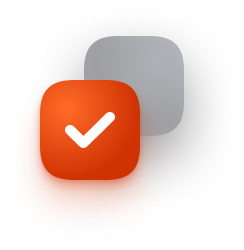
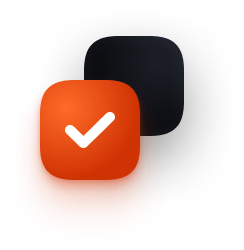
update images

Changed region(s): [[0.3443, 0.14, 0.7746, 0.56]]

diff --git a/src/app/components/passwordInput/index.tsx b/src/app/components/passwordInput/index.tsx
@@ -2,7 +2,7 @@ import { useTranslation } from 'react-i18next';
 import styled, { useTheme } from 'styled-components';
 import Eye from '@assets/img/createPassword/Eye.svg';
 import EyeSlash from '@assets/img/createPassword/EyeSlash.svg';
-import PasswordIcon from '@assets/img/Graphic (1).svg';
+import PasswordIcon from '@assets/img/Graphic (1).png';
 import { useEffect, useState } from 'react';
 import ActionButton from '@components/button';
 import { animated, useTransition } from '@react-spring/web';
@@ -45,7 +45,7 @@ const HeaderContainer = styled.div({
   display: 'flex',
   flexDirection: 'column',
   alignItems: 'center',
-  height: '120px'
+  height: '120px',
 });
 
 interface PasswordInputContainerProps {
@@ -66,11 +66,11 @@ const PasswordInputContainer = styled.div<PasswordInputContainerProps>((props) =
   marginTop: props.theme.spacing(8),
   marginBottom: props.theme.spacing(3),
   ':hover': {
-    border : `1px solid ${props.theme.colors.action.classic}`
+    border: `1px solid ${props.theme.colors.action.classic}`,
   },
   ':focus': {
-    border : `1px solid ${props.theme.colors.action.classic}`
-  }
+    border: `1px solid ${props.theme.colors.action.classic}`,
+  },
 }));
 
 const PasswordInputLabel = styled.h2((props) => ({
@@ -334,14 +334,14 @@ function PasswordInput(props: PasswordInputProps): JSX.Element {
       </PasswordInputContainer>
       {error && <ErrorMessage>{error}</ErrorMessage>}
       <ButtonsContainer stackButtonAlignment={stackButtonAlignment} ifError={error !== ''}>
-          <ActionButton
-            processing={loading}
-            disabled={
-              !enteredPassword || (!!checkPasswordStrength && score <= PasswordStrength.WeakScore)
-            }
-            text={t('CONTINUE_BUTTON')}
-            onPress={handleContinue}
-          />
+        <ActionButton
+          processing={loading}
+          disabled={
+            !enteredPassword || (!!checkPasswordStrength && score <= PasswordStrength.WeakScore)
+          }
+          text={t('CONTINUE_BUTTON')}
+          onPress={handleContinue}
+        />
       </ButtonsContainer>
     </Container>
   );

diff --git a/src/app/screens/coinDashboard/coinHeader.tsx b/src/app/screens/coinDashboard/coinHeader.tsx
@@ -361,14 +361,14 @@ export default function CoinHeader(props: CoinBalanceProps) {
               />
             </RecieveButtonContainer>
           )}
-          {coin === 'BTC' || coin === 'STX' ? (
+          {/* {coin === 'BTC' || coin === 'STX' ? (
             <SmallActionButton
               isOpaque
               isRound
               src={SwapCoin}
               onPress={() => console.log('transfer')}
             />
-          ) : null}
+          ) : null} */}
         </RowButtonContainer>
       </BalanceInfoContainer>
       {renderStackingBalances()}
